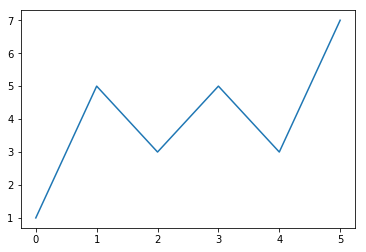
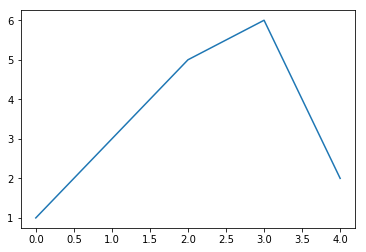
Nikola auto commit.
Source commit: a11c396aab3ec0e883bed19060720a5a46b2fcd5
Nikola version: 7.8.10

diff --git a/posts/org-mode-tutorial/index.html b/posts/org-mode-tutorial/index.html
@@ -777,7 +777,7 @@ Some code using the <code>ob-ipython</code> library
 
 <div class="highlight"><pre><span></span><span class="o">%</span><span class="n">matplotlib</span> <span class="n">inline</span>
 <span class="kn">import</span> <span class="nn">matplotlib.pyplot</span> <span class="k">as</span> <span class="nn">plt</span>
-<span class="n">plt</span><span class="o">.</span><span class="n">plot</span><span class="p">([</span><span class="mi">1</span><span class="p">,</span><span class="mi">5</span><span class="p">,</span><span class="mi">3</span><span class="p">,</span><span class="mi">5</span><span class="p">,</span><span class="mi">3</span><span class="p">,</span><span class="mi">7</span><span class="p">])</span>
+<span class="n">plt</span><span class="o">.</span><span class="n">plot</span><span class="p">([</span><span class="mi">1</span><span class="p">,</span><span class="mi">3</span><span class="p">,</span><span class="mi">5</span><span class="p">,</span><span class="mi">6</span><span class="p">,</span><span class="mi">2</span><span class="p">])</span>
 </pre></div>
 
 
@@ -870,6 +870,8 @@ M-S-left M-S-right: Change level of headings and its subheadings
   Contents © 2017  <a href="mailto:carlosperezmolano@gmail.com">Carlos Perez</a>
   —
   
+<a rel="license" href="https://creativecommons.org/licenses/by-nc-sa/4.0/">
+<img alt="Creative Commons License BY-NC-SA" style="border-width:0; margin-bottom:12px;" src="https://i.creativecommons.org/l/by-nc-sa/4.0/88x31.png"></a>
   —
   Powered by <a href="https://getnikola.com" rel="nofollow">Nikola</a>
 </p>

diff --git a/posts/blogging-with-nikola-and-orgmode/index.html b/posts/blogging-with-nikola-and-orgmode/index.html
@@ -347,7 +347,6 @@ Now, set the theme to "readable" in in the <code>conf.py</code> file
 </div>
 </div>
 
-
 <div id="outline-container-sec-3-5" class="outline-3">
 <h3 id="sec-3-5">Shell tab completion</h3>
 <div class="outline-text-3" id="text-3-5">
@@ -413,6 +412,8 @@ It is important to use the command <code>source _nikola_bash</code> to be activa
   Contents © 2017  <a href="mailto:carlosperezmolano@gmail.com">Carlos Perez</a>
   —
   
+<a rel="license" href="https://creativecommons.org/licenses/by-nc-sa/4.0/">
+<img alt="Creative Commons License BY-NC-SA" style="border-width:0; margin-bottom:12px;" src="https://i.creativecommons.org/l/by-nc-sa/4.0/88x31.png"></a>
   —
   Powered by <a href="https://getnikola.com" rel="nofollow">Nikola</a>
 </p>

diff --git a/index.html b/index.html
@@ -174,6 +174,8 @@ to blog posts, as there are some parts of the file that need to be adapted.
   Contents © 2017  <a href="mailto:carlosperezmolano@gmail.com">Carlos Perez</a>
   —
   
+<a rel="license" href="https://creativecommons.org/licenses/by-nc-sa/4.0/">
+<img alt="Creative Commons License BY-NC-SA" style="border-width:0; margin-bottom:12px;" src="https://i.creativecommons.org/l/by-nc-sa/4.0/88x31.png"></a>
   —
   Powered by <a href="https://getnikola.com" rel="nofollow">Nikola</a>
 </p>

diff --git a/2016/index.html b/2016/index.html
@@ -105,6 +105,8 @@
   Contents © 2017  <a href="mailto:carlosperezmolano@gmail.com">Carlos Perez</a>
   —
   
+<a rel="license" href="https://creativecommons.org/licenses/by-nc-sa/4.0/">
+<img alt="Creative Commons License BY-NC-SA" style="border-width:0; margin-bottom:12px;" src="https://i.creativecommons.org/l/by-nc-sa/4.0/88x31.png"></a>
   —
   Powered by <a href="https://getnikola.com" rel="nofollow">Nikola</a>
 </p>

diff --git a/2017/index.html b/2017/index.html
@@ -105,6 +105,8 @@
   Contents © 2017  <a href="mailto:carlosperezmolano@gmail.com">Carlos Perez</a>
   —
   
+<a rel="license" href="https://creativecommons.org/licenses/by-nc-sa/4.0/">
+<img alt="Creative Commons License BY-NC-SA" style="border-width:0; margin-bottom:12px;" src="https://i.creativecommons.org/l/by-nc-sa/4.0/88x31.png"></a>
   —
   Powered by <a href="https://getnikola.com" rel="nofollow">Nikola</a>
 </p>

diff --git a/archive.html b/archive.html
@@ -110,6 +110,8 @@
   Contents © 2017  <a href="mailto:carlosperezmolano@gmail.com">Carlos Perez</a>
   —
   
+<a rel="license" href="https://creativecommons.org/licenses/by-nc-sa/4.0/">
+<img alt="Creative Commons License BY-NC-SA" style="border-width:0; margin-bottom:12px;" src="https://i.creativecommons.org/l/by-nc-sa/4.0/88x31.png"></a>
   —
   Powered by <a href="https://getnikola.com" rel="nofollow">Nikola</a>
 </p>

diff --git a/categories/blog/index.html b/categories/blog/index.html
@@ -114,6 +114,8 @@
   Contents © 2017  <a href="mailto:carlosperezmolano@gmail.com">Carlos Perez</a>
   —
   
+<a rel="license" href="https://creativecommons.org/licenses/by-nc-sa/4.0/">
+<img alt="Creative Commons License BY-NC-SA" style="border-width:0; margin-bottom:12px;" src="https://i.creativecommons.org/l/by-nc-sa/4.0/88x31.png"></a>
   —
   Powered by <a href="https://getnikola.com" rel="nofollow">Nikola</a>
 </p>

diff --git a/categories/index.html b/categories/index.html
@@ -103,6 +103,8 @@
   Contents © 2017  <a href="mailto:carlosperezmolano@gmail.com">Carlos Perez</a>
   —
   
+<a rel="license" href="https://creativecommons.org/licenses/by-nc-sa/4.0/">
+<img alt="Creative Commons License BY-NC-SA" style="border-width:0; margin-bottom:12px;" src="https://i.creativecommons.org/l/by-nc-sa/4.0/88x31.png"></a>
   —
   Powered by <a href="https://getnikola.com" rel="nofollow">Nikola</a>
 </p>

diff --git a/categories/mathjax/index.html b/categories/mathjax/index.html
@@ -114,6 +114,8 @@
   Contents © 2017  <a href="mailto:carlosperezmolano@gmail.com">Carlos Perez</a>
   —
   
+<a rel="license" href="https://creativecommons.org/licenses/by-nc-sa/4.0/">
+<img alt="Creative Commons License BY-NC-SA" style="border-width:0; margin-bottom:12px;" src="https://i.creativecommons.org/l/by-nc-sa/4.0/88x31.png"></a>
   —
   Powered by <a href="https://getnikola.com" rel="nofollow">Nikola</a>
 </p>

diff --git a/galleries/index.html b/galleries/index.html
@@ -114,6 +114,8 @@
   Contents © 2017  <a href="mailto:carlosperezmolano@gmail.com">Carlos Perez</a>
   —
   
+<a rel="license" href="https://creativecommons.org/licenses/by-nc-sa/4.0/">
+<img alt="Creative Commons License BY-NC-SA" style="border-width:0; margin-bottom:12px;" src="https://i.creativecommons.org/l/by-nc-sa/4.0/88x31.png"></a>
   —
   Powered by <a href="https://getnikola.com" rel="nofollow">Nikola</a>
 </p>

diff --git a/listings/index.html b/listings/index.html
@@ -103,6 +103,8 @@
   Contents © 2017  <a href="mailto:carlosperezmolano@gmail.com">Carlos Perez</a>
   —
   
+<a rel="license" href="https://creativecommons.org/licenses/by-nc-sa/4.0/">
+<img alt="Creative Commons License BY-NC-SA" style="border-width:0; margin-bottom:12px;" src="https://i.creativecommons.org/l/by-nc-sa/4.0/88x31.png"></a>
   —
   Powered by <a href="https://getnikola.com" rel="nofollow">Nikola</a>
 </p>
